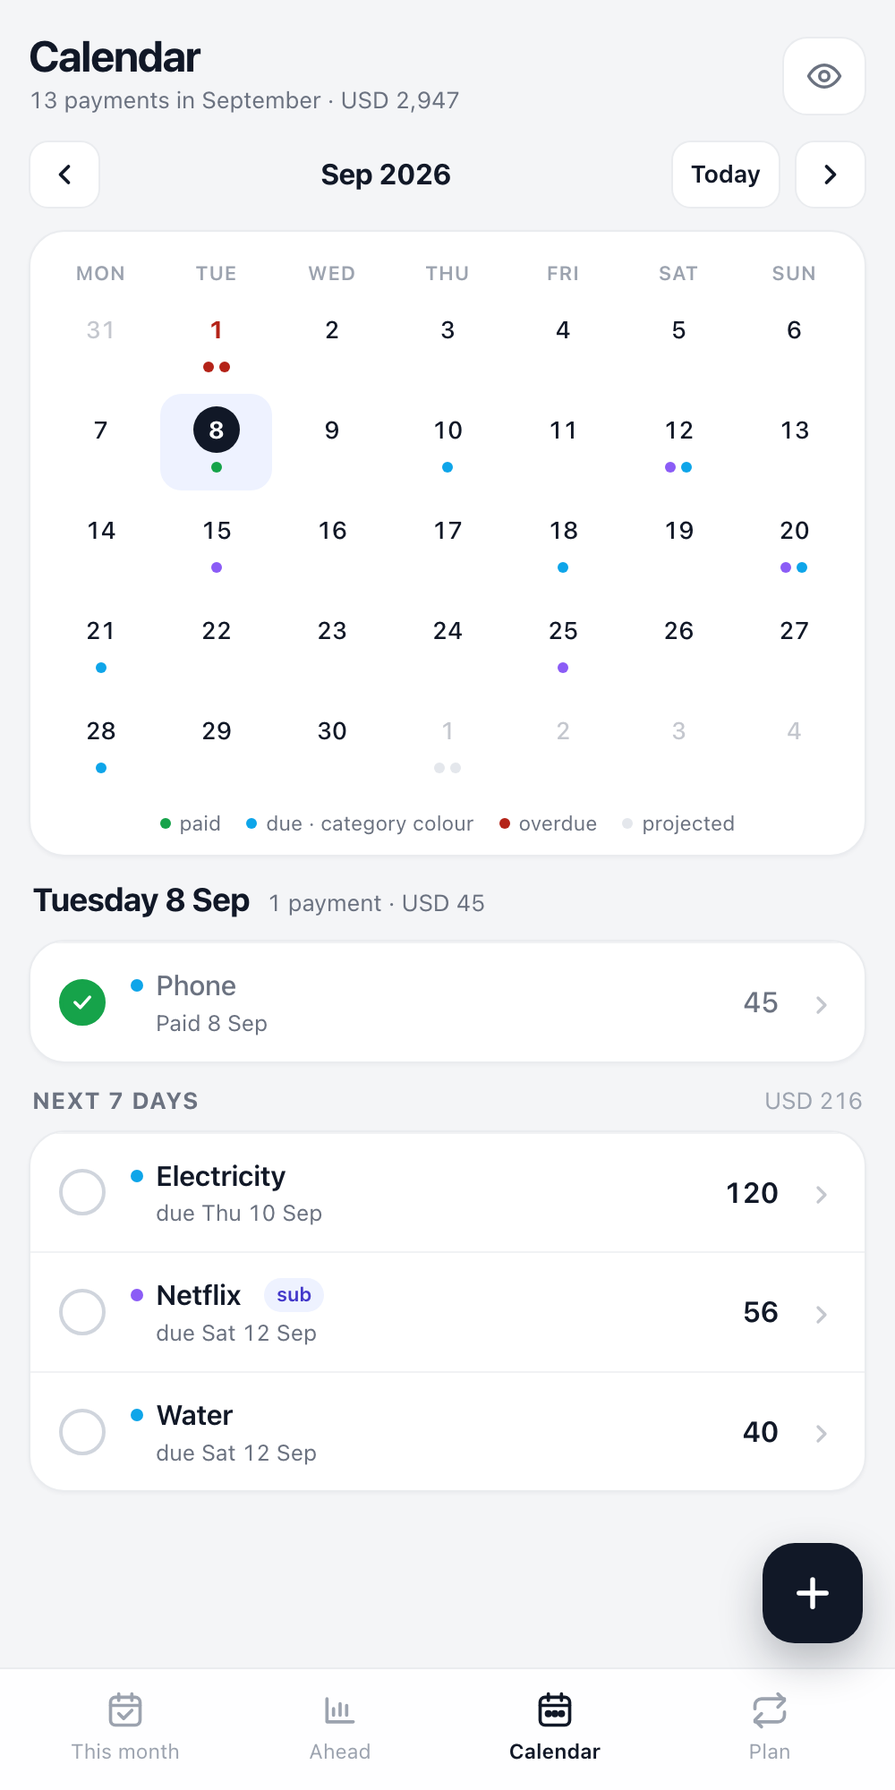
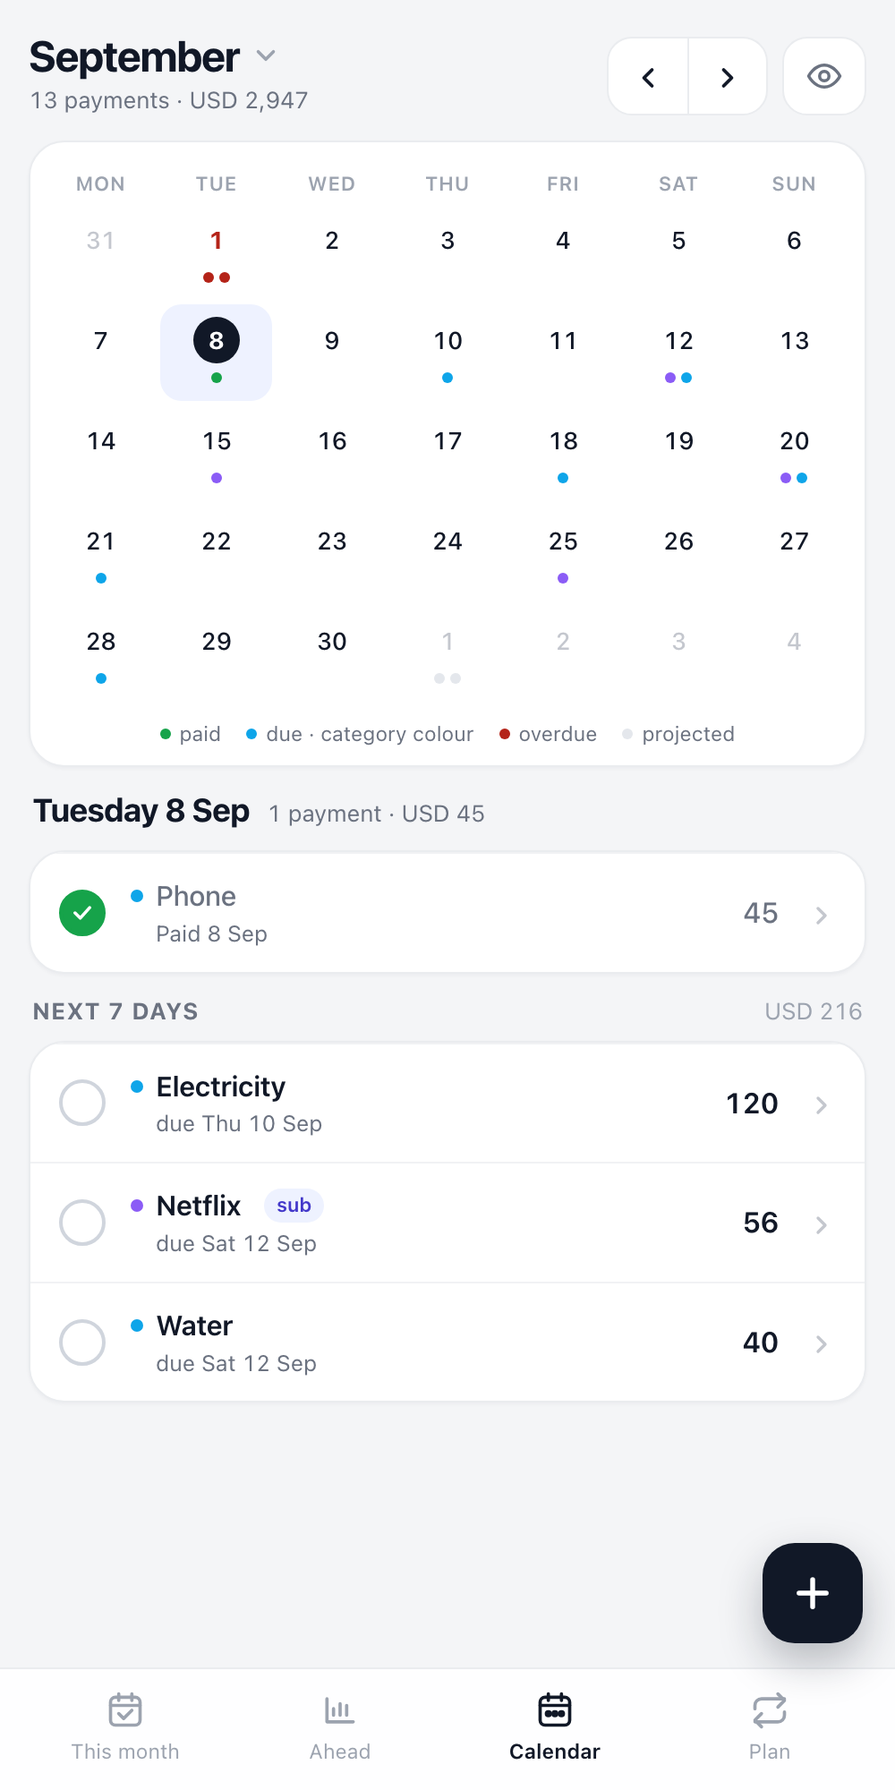
UI pass: one header everywhere, uniform desktop frame, spacing and filter fixes
Shared header on every tab (month title with picker, prev/next pair,
Today only when away from the current month). All tabs use the same
1180px two-column frame on desktop; Ahead and Plan gain a side column.
Fixes: right-column cards had no gap, the category filter skipped the
Paid card, the desktop hero bottom-aligned the pace block, the legend
wrapped unevenly, the calendar used a different title format, the Ahead
chart was drawn for the wrong width.

diff --git a/Index.html b/Index.html
@@ -40,12 +40,17 @@ svg{display:inline-block;vertical-align:middle}
 .hdr-title{font-size:24px;font-weight:700;letter-spacing:-.03em;line-height:1.1;display:inline-flex;align-items:center;gap:6px}
 .hdr-title svg{width:17px;height:17px;color:var(--faint)}
 .hdr-sub{font-size:13px;color:var(--muted);margin-top:2px}
-.hdr-right{display:flex;gap:6px;align-items:center;flex:0 0 auto}
+.hdr-right{display:flex;gap:8px;align-items:center;flex:0 0 auto}
 .ctl{height:44px;min-width:44px;border-radius:14px;background:#fff;border:1px solid var(--border);display:inline-flex;align-items:center;justify-content:center;color:var(--muted);padding:0 12px;font-size:13.5px;font-weight:600}
 .ctl svg{width:21px;height:21px}
 .ctl.on{background:var(--accent);border-color:var(--accent);color:#fff}
 .ctl.sm{height:38px;min-width:38px;border-radius:11px;padding:0 10px;color:var(--text)}
 .ctl.sm svg{width:18px;height:18px}
+.navpair{display:inline-flex;background:#fff;border:1px solid var(--border);border-radius:14px;overflow:hidden;height:44px}
+.navpair button{width:44px;height:44px;display:inline-flex;align-items:center;justify-content:center;color:var(--text)}
+.navpair button + button{border-left:1px solid var(--border)}
+.navpair button svg{width:18px;height:18px}
+.navpair button:hover{background:var(--soft)}
 .private-strip{display:flex;align-items:center;gap:10px;background:#fff;border:1px solid var(--border);border-radius:14px;padding:10px 14px;font-size:12.5px;color:var(--body);margin-bottom:12px}
 .private-strip svg{width:17px;height:17px;color:var(--muted);flex:0 0 auto}
 
@@ -86,11 +91,13 @@ svg{display:inline-block;vertical-align:middle}
 .glance-row .r{font-size:12px;color:var(--faint)}
 .stack{display:flex;gap:3px;height:10px;border-radius:var(--radius-pill);background:var(--hairline);margin-top:8px;overflow:hidden}
 .stack i{display:block;height:100%;border-radius:var(--radius-pill);min-width:4px}
-.legend{display:flex;flex-wrap:wrap;gap:6px 14px;margin-top:10px}
-.legend button{display:inline-flex;align-items:center;gap:6px;font-size:12.5px;color:var(--muted);padding:4px 6px;margin:-4px -6px;border-radius:8px;min-height:32px}
-.legend button b{color:var(--text);font-weight:600}
+.legend{display:grid;grid-template-columns:repeat(auto-fill,minmax(112px,1fr));gap:4px 10px;margin-top:12px}
+.legend button{display:inline-flex;align-items:center;gap:6px;font-size:12.5px;color:var(--muted);padding:6px 8px;border-radius:8px;min-height:34px;min-width:0}
+.legend button span{white-space:nowrap;overflow:hidden;text-overflow:ellipsis}
+.legend button b{color:var(--text);font-weight:600;margin-left:auto;padding-left:6px}
 .legend button .dot{width:8px;height:8px}
-.legend button.on{background:var(--accent);color:#fff;margin:-4px 0}
+.legend button:hover{background:var(--bg)}
+.legend button.on{background:var(--accent);color:#fff}
 .legend button.on b{color:#fff}
 
 /* ---- money strip ---- */
@@ -364,6 +371,10 @@ body.selecting .tabbar,body.selecting .fab{display:none!important}
 @media(min-width:1080px){
   .dk{display:revert!important}
   .ph{display:none!important}
+  .col.dk,.hero-dk.dk{display:flex!important}
+  .hdr-title.dk{display:inline-flex!important}
+  .btn-pill.dk{display:inline-flex!important}
+  span.dk{display:inline!important}
   .shell{display:flex;min-height:100vh}
   .rail{display:flex;flex-direction:column;gap:22px;width:248px;flex:0 0 248px;background:#fff;border-right:1px solid var(--border);padding:22px 16px;position:sticky;top:0;height:100vh}
   .rail .brand{font-size:18px;font-weight:700;letter-spacing:-.02em;padding:0 8px}
@@ -384,10 +395,13 @@ body.selecting .tabbar,body.selecting .fab{display:none!important}
   .rail .note{font-size:11.5px;color:var(--faint);margin:8px 4px 0}
   .content{flex:1;min-width:0}
   .page{max-width:1180px;margin:0 auto;padding:22px 24px 40px;min-height:0}
-  .page.narrow{max-width:760px}
+  .grid2.even{grid-template-columns:minmax(0,1.55fr) minmax(0,1fr)}
   .tabbar,.fab{display:none!important}
   .actionbar{left:248px}
   .hdr{padding:0 0 18px}
+  .hdr-right .ctl,.hdr-right .navpair{height:38px}
+  .hdr-right .navpair button{width:38px;height:38px}
+  .hdr-right .ctl{min-width:38px;border-radius:11px;padding:0 14px;color:var(--text)}
   .hdr-title{font-size:26px}
   .hdr-title svg{width:18px;height:18px}
   .hdr-sub{font-size:13.5px}
@@ -395,13 +409,19 @@ body.selecting .tabbar,body.selecting .fab{display:none!important}
   .grid2.cal{grid-template-columns:minmax(0,1.7fr) minmax(0,1fr)}
   .col{display:flex;flex-direction:column;gap:16px}
   .col > .card{margin-bottom:0}
-  .hero-dk{padding:22px 24px;display:flex;align-items:flex-end;gap:24px}
+  .col > .ph > .card,.col > .dk > .card{margin-bottom:12px}
+  .col .btn-block{margin:0}
+  .col .foot{margin:0 4px}
+  .col > .sec{margin:4px 2px -6px}
+  .col > .sec:first-child{margin-top:0}
+  .col > .seg{margin-bottom:0;align-self:flex-start}
+  .hero-dk{padding:22px 24px;display:flex;align-items:center;gap:24px}
   .hero-dk .l{flex:1;min-width:0}
   .hero-dk .hero-amt{font-size:52px}
   .hero-dk .hero-amt .cur{font-size:18px;vertical-align:8px}
   .hero-dk .deriv{font-size:13.5px;color:var(--muted);margin-top:4px}
   .hero-dk .vr{width:1px;align-self:stretch;background:var(--hairline)}
-  .hero-dk .r{flex:0 0 auto;text-align:right;display:flex;flex-direction:column;align-items:flex-end;gap:6px}
+  .hero-dk .r{flex:0 0 auto;text-align:right;display:flex;flex-direction:column;align-items:flex-end;gap:6px;min-width:140px}
   .hero-dk .pace-v{font-size:26px;font-weight:700;letter-spacing:-.02em}
   .hero-dk .pace-v span{font-size:14px;font-weight:600;color:var(--faint);margin-left:4px;letter-spacing:0}
   .bills-head h2{font-size:19px}
@@ -695,7 +715,7 @@ function invalidate() { S.data.forecast = null; S.data.plan = null; S.data.calen
 function skeleton() { return '<div class="hdr"><div><div class="hdr-title" style="opacity:.3">&nbsp;</div></div></div><div class="card" style="height:150px;opacity:.5"></div><div class="card" style="height:220px;opacity:.35"></div>'; }
 function render() {
   document.body.classList.toggle('selecting', S.select.on);
-  $('#view').classList.toggle('narrow', S.tab === 'ahead' || S.tab === 'plan');
+  $('#view').classList.remove('narrow');
   if (S.tab === 'month') renderMonth();
   else if (S.tab === 'ahead') renderAhead();
   else if (S.tab === 'calendar') renderCalendar();
@@ -708,8 +728,14 @@ function eyeBtn() { return '<button class="ctl ph ' + (masked() ? 'on' : '') + '
 function header(title, sub, opts) {
   opts = opts || {};
   var t = opts.picker ? '<button class="hdr-title" data-act="pickmonth">' + esc(title) + I.chev + '</button>' : '<div class="hdr-title">' + esc(title) + '</div>';
-  var right = eyeBtn();
-  if (opts.monthNav) right += '<span class="dk"><span class="hdr-right"><button class="ctl sm" data-nav="-1" aria-label="Previous month">' + I.left + '</button><button class="ctl sm" data-nav="0">Today</button><button class="ctl sm" data-nav="1" aria-label="Next month">' + I.right + '</button></span></span>';
+  var right = '';
+  if (opts.monthNav) {
+    var attr = opts.navAttr || 'data-nav';
+    var nav = '<span class="navpair"><button ' + attr + '="-1" aria-label="Previous month">' + I.left + '</button><button ' + attr + '="1" aria-label="Next month">' + I.right + '</button></span>' +
+              (opts.isCurrent ? '' : '<button class="ctl" ' + attr + '="0">Today</button>');
+    right += opts.phoneNav ? nav : '<span class="dk">' + nav + '</span>';
+  }
+  right += eyeBtn();
   return '<div class="hdr"><div>' + t + '<div class="hdr-sub">' + sub + '</div></div><div class="hdr-right">' + right + '</div></div>' +
     (masked() ? '<div class="private-strip">' + I.eyeOff + '<span>Amounts hidden. Names, dates and ticking still work.</span></div>' : '');
 }
@@ -782,7 +808,7 @@ function renderMonth() {
   } else {
     var sub = isCur ? DAYS_LONG[toDate(today).getDay()] + ' ' + dateLabel(today) + ' · ' + pluralize(daysLeft, 'day') + ' left' : monthLabel(d.month);
     sub += '<span class="dk"> · ' + pluralize(pending.length, 'bill') + ' unpaid</span>';
-    h += header(monthTitle(d.month), sub, { picker: true, monthNav: true });
+    h += header(monthTitle(d.month), sub, { picker: true, monthNav: true, isCurrent: isCur });
   }
 
   if (!S.select.on) {
@@ -821,9 +847,11 @@ function renderMonth() {
       h += list.map(function (i) { return billRow(i, today); }).join('');
       h += '</section>';
     });
-    if (paid.length) {
-      h += '<section class="' + (isDesktop() ? 'group' : 'card') + '"><button class="paid-row ' + (S.paidOpen ? 'open' : '') + '" data-act="paid"><span class="pc">' + I.check + '</span><span class="pt">Paid in ' + esc(monthLong(d.month)) + '</span><span class="pn">' + paid.length + '</span><span class="pa">' + plain(d.totals.paid) + '</span>' + I.chevR + '</button>';
-      if (S.paidOpen) h += paid.slice().sort(byDue).map(function (i) { return billRow(i, today); }).join('');
+    var paidShown = S.filterCat ? paid.filter(function (i) { return i.category === S.filterCat; }) : paid;
+    if (paidShown.length) {
+      var paidSum = paidShown.reduce(function (a, i) { return a + i.amount; }, 0);
+      h += '<section class="' + (isDesktop() ? 'group' : 'card') + '"><button class="paid-row ' + (S.paidOpen ? 'open' : '') + '" data-act="paid"><span class="pc">' + I.check + '</span><span class="pt">Paid in ' + esc(monthLong(d.month)) + (S.filterCat ? ' · ' + esc(S.filterCat) : '') + '</span><span class="pn">' + paidShown.length + '</span><span class="pa">' + plain(paidSum) + '</span>' + I.chevR + '</button>';
+      if (S.paidOpen) h += paidShown.slice().sort(byDue).map(function (i) { return billRow(i, today); }).join('');
       h += '</section>';
     }
     h += isDesktop() ? '</section>' : '';
@@ -882,7 +910,7 @@ function renderGlance(d, total, paidCount, count) {
   if (!count) return '';
   var h = '<div class="glance-row"><span><b>' + esc(monthLong(d.month)) + ' bills</b> · ' + plain(total) + '</span><span class="r">' + paidCount + ' of ' + count + ' ticked</span></div>';
   h += '<div class="stack">' + bc.order.map(function (c) { return '<i style="width:' + (bc.map[c] / bc.total * 100).toFixed(1) + '%;background:' + (masked() ? '#E4E7EC' : catColor(c)) + '"></i>'; }).join('') + '</div>';
-  h += '<div class="legend">' + bc.order.map(function (c) { return '<button data-cat="' + esc(c) + '" class="' + (S.filterCat === c ? 'on' : '') + '"><i class="dot" style="background:' + catColor(c) + '"></i>' + esc(c) + '<b>' + bare(bc.map[c]) + '</b></button>'; }).join('') + '</div>';
+  h += '<div class="legend">' + bc.order.map(function (c) { return '<button data-cat="' + esc(c) + '" class="' + (S.filterCat === c ? 'on' : '') + '"><i class="dot" style="background:' + catColor(c) + '"></i><span>' + esc(c) + '</span><b>' + bare(bc.map[c]) + '</b></button>'; }).join('') + '</div>';
   return h;
 }
 function staleDays(d) { return d.balance_updated ? daysBetween(d.balance_updated, S.boot.today) : null; }
@@ -1236,6 +1264,7 @@ function renderAhead() {
   var fc = S.data.forecast; if (!fc) return;
   var first = fc[0], last = fc[fc.length - 1];
   var h = header('Ahead', esc(monthLabel(first.month)) + ' → ' + esc(monthLabel(last.month)));
+  h += '<div class="grid2 even"><div class="col">';
   h += '<div class="seg"><button data-n="6" class="' + (S.fcCount === 6 ? 'on' : '') + '">6 months</button><button data-n="12" class="' + (S.fcCount === 12 ? 'on' : '') + '">12 months</button></div>';
   var perMonth = fc.length > 1 ? (last.running - first.running) / (fc.length - 1) : 0;
   h += '<section class="card sum"><div class="sum-label">By ' + esc(monthLabel(last.month)) + ' you would have</div><div class="sum-amt">' + money(last.running) + '</div>' +
@@ -1256,16 +1285,22 @@ function renderAhead() {
   });
   h += '</section>';
   var allOne = [];
-  fc.forEach(function (m) { m.items.forEach(function (i) { if (i.source === 'manual' && i.status !== 'paid') allOne.push(i); }); });
+  fc.forEach(function (m) { m.items.forEach(function (i) { if (i.source === 'manual' && i.status !== 'paid') { i.month = m.month; allOne.push(i); } }); });
   var oneTotal = allOne.reduce(function (a, i) { return a + i.amount; }, 0);
-  h += '<section class="card oneoffs"><div><div class="t">One-offs ahead</div><div class="s">' + (allOne.length ? pluralize(allOne.length, 'thing') + ' · ' + plain(oneTotal) + ' · shown inside their month' : 'Nothing booked yet. A fridge, a trip, a repair.') + '</div></div>' +
-       (owner() ? '<button class="btn-pill" data-act="addplanned">Add</button>' : '') + '</section>';
+  var oneHead = '<div><div class="t">One-offs ahead</div><div class="s">' + (allOne.length ? pluralize(allOne.length, 'thing') + ' · ' + plain(oneTotal) + ' · shown inside their month' : 'Nothing booked yet. A fridge, a trip, a repair.') + '</div></div>' + (owner() ? '<button class="btn-pill" data-act="addplanned">Add</button>' : '');
+  h += '<section class="card oneoffs ph">' + oneHead + '</section>';
+  h += '</div><div class="col dk">';
+  h += '<section class="card"><div class="oneoffs">' + oneHead.replace('data-act="addplanned"', 'data-act="addplanned2"') + '</div>' +
+       allOne.map(function (i) { return '<div class="bill" style="padding:12px 18px;gap:12px"><i class="dot" style="background:' + catColor(i.category) + '"></i><div class="bill-main"><div class="bill-name"><span class="nm">' + esc(i.name) + '</span></div><div class="bill-meta" style="margin-left:0;display:block">' + esc(monthLabel(i.month)) + (i.due_on ? ' · ' + esc(dateLabel(i.due_on)) : '') + '</div></div><div class="bill-amt" style="width:auto;flex:0 0 auto">' + money(i.amount, 'bare') + '</div>' + (owner() && i.id ? '<button class="more" data-menu="' + esc(i.id) + '" aria-label="More">' + I.dots + '</button>' : '') + '</div>'; }).join('') + '</section>';
+  if (fc[0].reserve || S.boot.reserveMonthly) h += '<section class="card rule"><h3>Reserve</h3><p>' + (S.boot.reserveMonthly ? 'The forecast keeps ' + plain(S.boot.reserveMonthly) + ' aside every month.' : 'Set a monthly rule in Plan and the forecast keeps it aside for months you have not opened.') + '</p></section>';
+  h += '</div></div>';
   $('#view').innerHTML = h;
   bindHeader();
   $$('[data-n]').forEach(function (b) { b.addEventListener('click', function () { S.fcCount = Number(b.getAttribute('data-n')); S.data.forecast = null; load(); }); });
   $$('[data-fc]').forEach(function (b) { b.addEventListener('click', function (e) { if (e.target.closest('[data-chip]')) return; var k = b.getAttribute('data-fc'); S.fcOpen[k] = !S.fcOpen[k]; renderAhead(); }); });
   $$('[data-chip]').forEach(function (c) { c.addEventListener('click', function (e) { e.stopPropagation(); var it = findItem(c.getAttribute('data-chip')); if (it && owner()) itemMenu(it); }); });
-  var ap = $('[data-act="addplanned"]'); if (ap) ap.addEventListener('click', function () { openAddItem({ category: catOr('Planned', CATS.length - 1), month: monthAdd(S.boot.currentMonth, 1) }); });
+  $$('[data-act="addplanned"],[data-act="addplanned2"]').forEach(function (ap) { ap.addEventListener('click', function () { openAddItem({ category: catOr('Planned', CATS.length - 1), month: monthAdd(S.boot.currentMonth, 1) }); }); });
+  $$('[data-menu]').forEach(function (b) { b.addEventListener('click', function (e) { e.stopPropagation(); itemMenu(findItem(b.getAttribute('data-menu'))); }); });
 }
 function monthDetail(m, isCur) {
   var order = CATS.slice(); Object.keys(m.byCategory).forEach(function (c) { if (order.indexOf(c) < 0) order.push(c); });
@@ -1281,7 +1316,9 @@ function monthDetail(m, isCur) {
 }
 function chartWidth() {
   var v = $('#view');
-  return Math.max(280, (v ? v.clientWidth : 322) - 38);   // card padding 18px each side + 1px borders
+  var w = v ? v.clientWidth : 322;
+  if (isDesktop()) w = (w - 20) * 1.55 / 2.55;   // left column of the two-column grid
+  return Math.max(280, w - 38);   // card padding 18px each side + 1px borders
 }
 function lineChart(fc) {
   var W = chartWidth(), H = W > 700 ? 200 : 132, L = 12, R = 8, base = H - 28, top = 24;
@@ -1347,10 +1384,7 @@ function renderCalendar() {
   var DOW = ['MON', 'TUE', 'WED', 'THU', 'FRI', 'SAT', 'SUN'];
 
   var sub = pluralize(inMonth.length, 'payment') + ' · ' + plain(total) + (paidN || lateN ? ' · ' + [paidN ? paidN + ' paid' : '', lateN ? lateN + ' overdue' : ''].filter(Boolean).join(', ') : '');
-  var h = '<div class="hdr"><div><div class="hdr-title ph">Calendar</div><button class="hdr-title dk" data-act="pickcal">' + esc(monthLabel(month)) + I.chev + '</button><div class="hdr-sub"><span class="ph">' + (isCur ? pluralize(inMonth.length, 'payment') + ' in ' + esc(monthLong(month)) + ' · ' + plain(total) : sub) + '</span><span class="dk">' + sub + '</span></div></div>' +
-          '<div class="hdr-right">' + eyeBtn() + '<span class="dk"><span class="hdr-right"><button class="ctl sm" data-calnav="-1" aria-label="Previous month">' + I.left + '</button><button class="ctl sm" data-calnav="0">Today</button><button class="ctl sm" data-calnav="1" aria-label="Next month">' + I.right + '</button></span></span></div></div>' +
-          (masked() ? '<div class="private-strip">' + I.eyeOff + '<span>Amounts hidden. Names, dates and ticking still work.</span></div>' : '');
-  h += '<div class="calnav ph"><button class="ctl sm" data-calnav="-1" aria-label="Previous month">' + I.left + '</button><div class="m">' + esc(monthLabel(month)) + '</div><button class="ctl sm" data-calnav="0">Today</button><button class="ctl sm" data-calnav="1" aria-label="Next month">' + I.right + '</button></div>';
+  var h = header(monthTitle(month), '<span class="ph">' + pluralize(inMonth.length, 'payment') + ' · ' + plain(total) + '</span><span class="dk">' + sub + '</span>', { picker: true, monthNav: true, isCurrent: isCur, navAttr: 'data-calnav', phoneNav: true });
 
   h += '<div class="grid2 cal"><div class="col">';
   // phone grid
@@ -1394,7 +1428,7 @@ function renderCalendar() {
   $('#view').innerHTML = h;
   var v = $('#view');
   var e = $('[data-act="mask"]', v); if (e) e.addEventListener('click', function () { setMask(!masked()); });
-  var pc = $('[data-act="pickcal"]', v); if (pc) pc.addEventListener('click', function () { calPicker(); });
+  var pc = $('[data-act="pickmonth"]', v); if (pc) pc.addEventListener('click', function () { calPicker(); });
   $$('[data-calnav]', v).forEach(function (b) { b.addEventListener('click', function () { var n = Number(b.getAttribute('data-calnav')); S.calMonth = n === 0 ? S.boot.currentMonth : monthAdd(S.calMonth, n); S.calDay = null; load(); }); });
   $$('[data-day]', v).forEach(function (b) { b.addEventListener('click', function () { S.calDay = b.getAttribute('data-day'); renderCalendar(); }); });
   $$('[data-pay]', v).forEach(function (b) { b.addEventListener('click', function (e) { e.stopPropagation(); togglePaid(b.getAttribute('data-pay')); }); });
@@ -1440,15 +1474,17 @@ function renderPlan() {
   var p = S.data.plan; if (!p) return;
   var h = header('Plan', 'What every month is built from');
   var active = p.templates.filter(function (t) { return t.active === 'yes'; });
+  var side = '';
   var off = p.templates.filter(function (t) { return t.active !== 'yes'; });
   var income = active.filter(function (t) { return t.category === 'Income'; });
   var monthly = active.filter(function (t) { return t.category !== 'Income' && t.kind !== 'subscription' && Number(t.every_n_months) === 1; });
   var nowThen = active.filter(function (t) { return t.category !== 'Income' && t.kind !== 'subscription' && Number(t.every_n_months) > 1; });
   var subs = subscriptions();
   income.forEach(function (t) {
-    h += '<' + (owner() ? 'button' : 'div') + ' class="card income" ' + (owner() ? 'data-rec="' + esc(t.id) + '"' : '') + ' style="width:100%"><span class="ic">' + I.down + '</span><div><div class="t">' + esc(t.name) + '</div><div class="s">Comes in ' + repeatLabel(t.every_n_months).toLowerCase() + ' · since ' + esc(monthLabel(t.start_month)) + '</div></div><div class="v"><b>' + money(t.amount, 'bare') + '</b><span>' + esc(CUR) + ' in</span></div></' + (owner() ? 'button' : 'div') + '>';
+    side += '<' + (owner() ? 'button' : 'div') + ' class="card income" ' + (owner() ? 'data-rec="' + esc(t.id) + '"' : '') + ' style="width:100%"><span class="ic">' + I.down + '</span><div><div class="t">' + esc(t.name) + '</div><div class="s">Comes in ' + repeatLabel(t.every_n_months).toLowerCase() + ' · since ' + esc(monthLabel(t.start_month)) + '</div></div><div class="v"><b>' + money(t.amount, 'bare') + '</b><span>' + esc(CUR) + ' in</span></div></' + (owner() ? 'button' : 'div') + '>';
   });
-  if (!income.length && owner()) h += '<section class="card"><div class="empty"><strong>No salary yet</strong>Add an Income template so the forecast knows what comes in.</div></section>';
+  if (!income.length && owner()) side += '<section class="card"><div class="empty"><strong>No salary yet</strong>Add an Income template so the forecast knows what comes in.</div></section>';
+  h += '<div class="grid2 even"><div class="col"><div class="ph">' + side + '</div>';
   if (subs.length || owner()) {
     var trials = subs.filter(function (x) { return x.t.trial_ends && x.t.trial_ends >= S.boot.today; }).length;
     var st = subTotals(subs);
@@ -1469,17 +1505,19 @@ function renderPlan() {
     h += '<div class="sec">Now and then<span>' + pluralize(nowThen.length, 'template') + '</span></div><section class="card">' + nowThen.map(function (t) { return trow(t, p); }).join('') + '</section>';
   }
   var rule = p.reserveMonthly;
-  h += '<section class="card rule"><h3>Reserve rule</h3><p>Money that stays in the account. It comes off safe-to-spend and the forecast keeps it aside every month.</p>' +
+  var ruleCard = '<section class="card rule"><h3>Reserve rule</h3><p>Money that stays in the account. It comes off safe-to-spend and the forecast keeps it aside every month.</p>' +
        '<div class="rule-stats"><div class="st"><span>Set aside each month</span><b>' + (rule === null || rule === undefined ? (masked() ? '•••' : 'not set') : money(rule, 'bare')) + '</b></div><div class="st"><span>Kept so far</span><b>' + money(p.reserveTotal, 'bare') + '</b></div>' +
        (owner() ? '<button class="btn-pill" data-act="rule">Change</button>' : '') + '</div></section>';
-  if (owner()) h += '<button class="btn-block" data-act="newtpl">' + I.plus + 'New template</button>';
-  h += '<p class="foot">Categories and currency live in the Settings tab of your sheet. Editing a template never changes a month you have already paid.</p>';
+  var newBtn = owner() ? '<button class="btn-block" data-act="newtpl">' + I.plus + 'New template</button>' : '';
+  var foot = '<p class="foot">Categories and currency live in the Settings tab of your sheet. Editing a template never changes a month you have already paid.</p>';
   if (off.length) h += '<div class="sec">Switched off</div><section class="card">' + off.map(function (t) { return trow(t, p); }).join('') + '</section>';
+  h += '<div class="ph">' + ruleCard + newBtn + foot + '</div>';
+  h += '</div><div class="col dk">' + side + ruleCard + newBtn.replace('data-act="newtpl"', 'data-act="newtpl2"') + foot + '</div></div>';
   $('#view').innerHTML = h;
   bindHeader();
   $$('[data-rec]').forEach(function (b) { b.addEventListener('click', function () { var t = p.templates.filter(function (x) { return x.id === b.getAttribute('data-rec'); })[0]; if (owner()) editRecurring(t); }); });
-  var r = $('[data-act="rule"]'); if (r) r.addEventListener('click', editReserveRule);
-  var n = $('[data-act="newtpl"]'); if (n) n.addEventListener('click', function () { editRecurring(null); });
+  $$('[data-act="rule"]').forEach(function (r) { r.addEventListener('click', editReserveRule); });
+  $$('[data-act="newtpl"],[data-act="newtpl2"]').forEach(function (n) { n.addEventListener('click', function () { editRecurring(null); }); });
   var ns = $('[data-act="newsub"]'); if (ns) ns.addEventListener('click', function () { editRecurring(null, { subscription: true }); });
 }
 function srow(x, first) {
